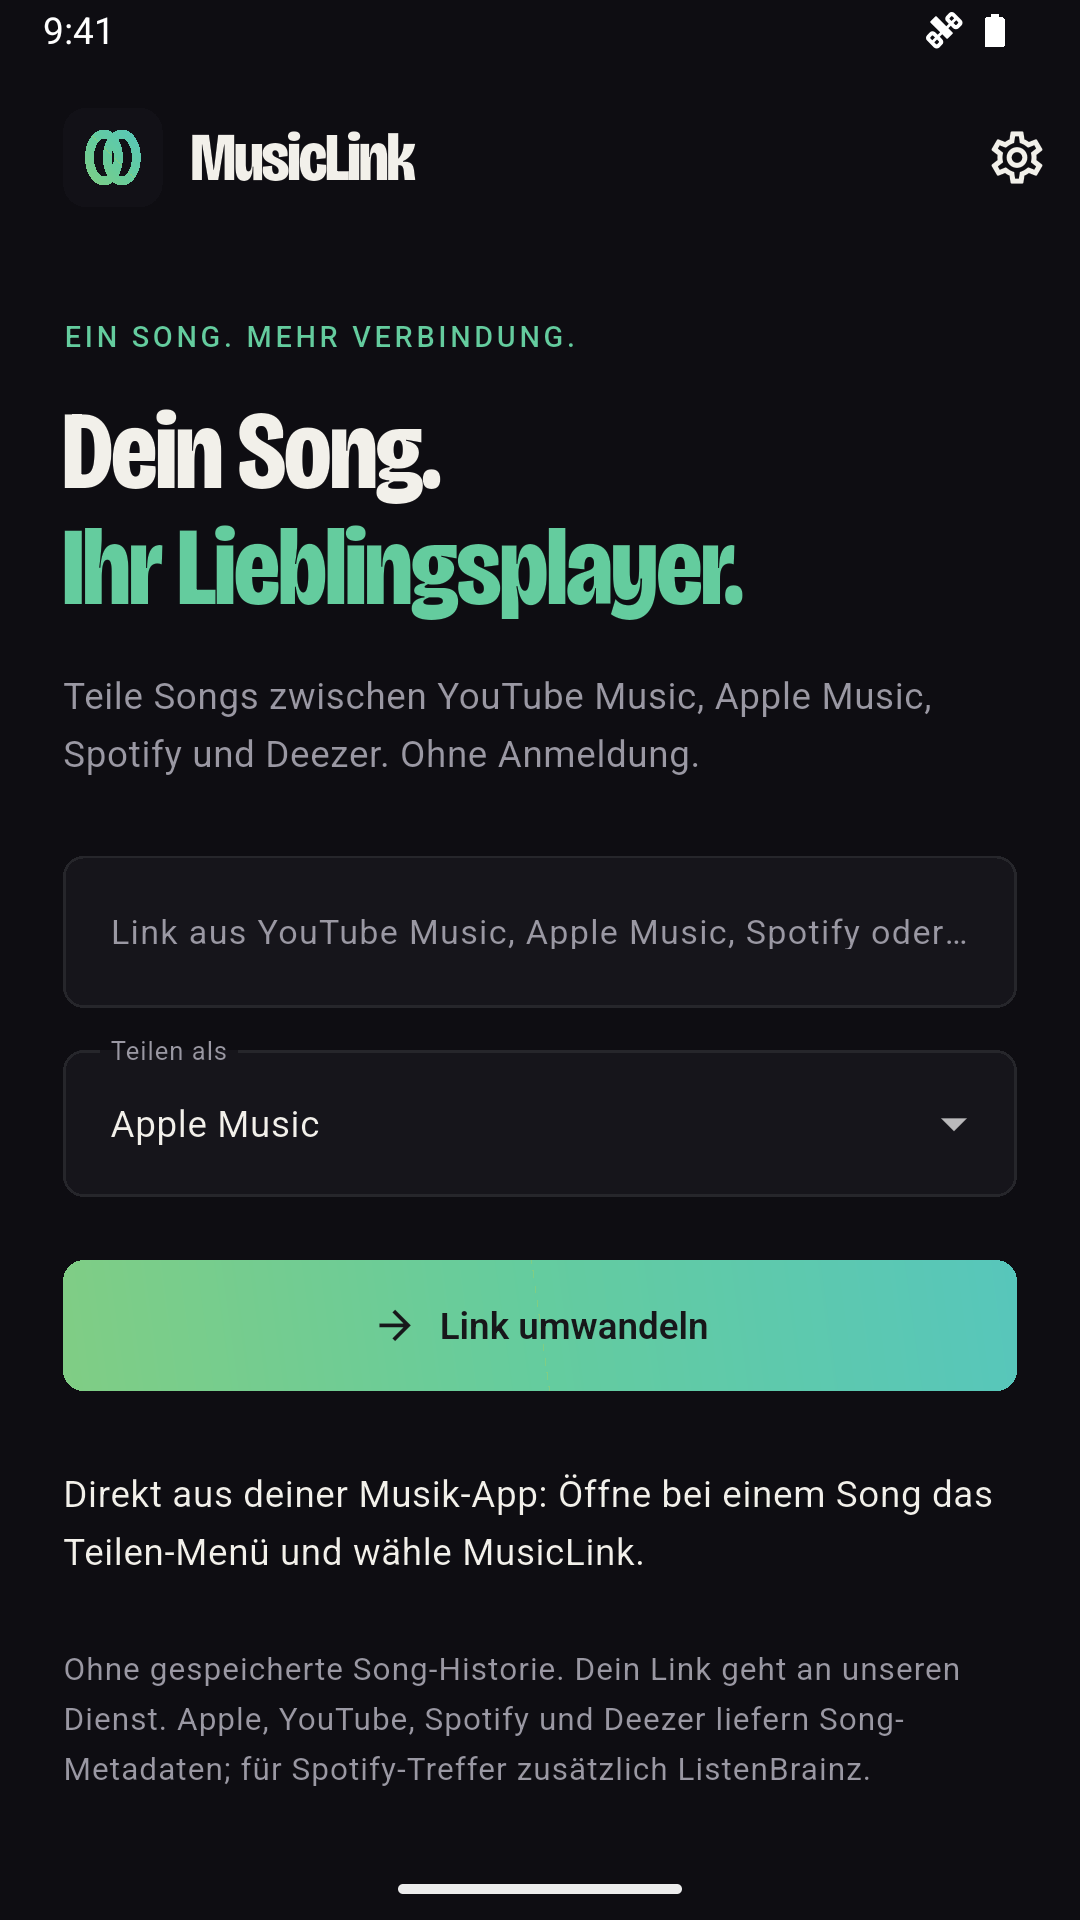
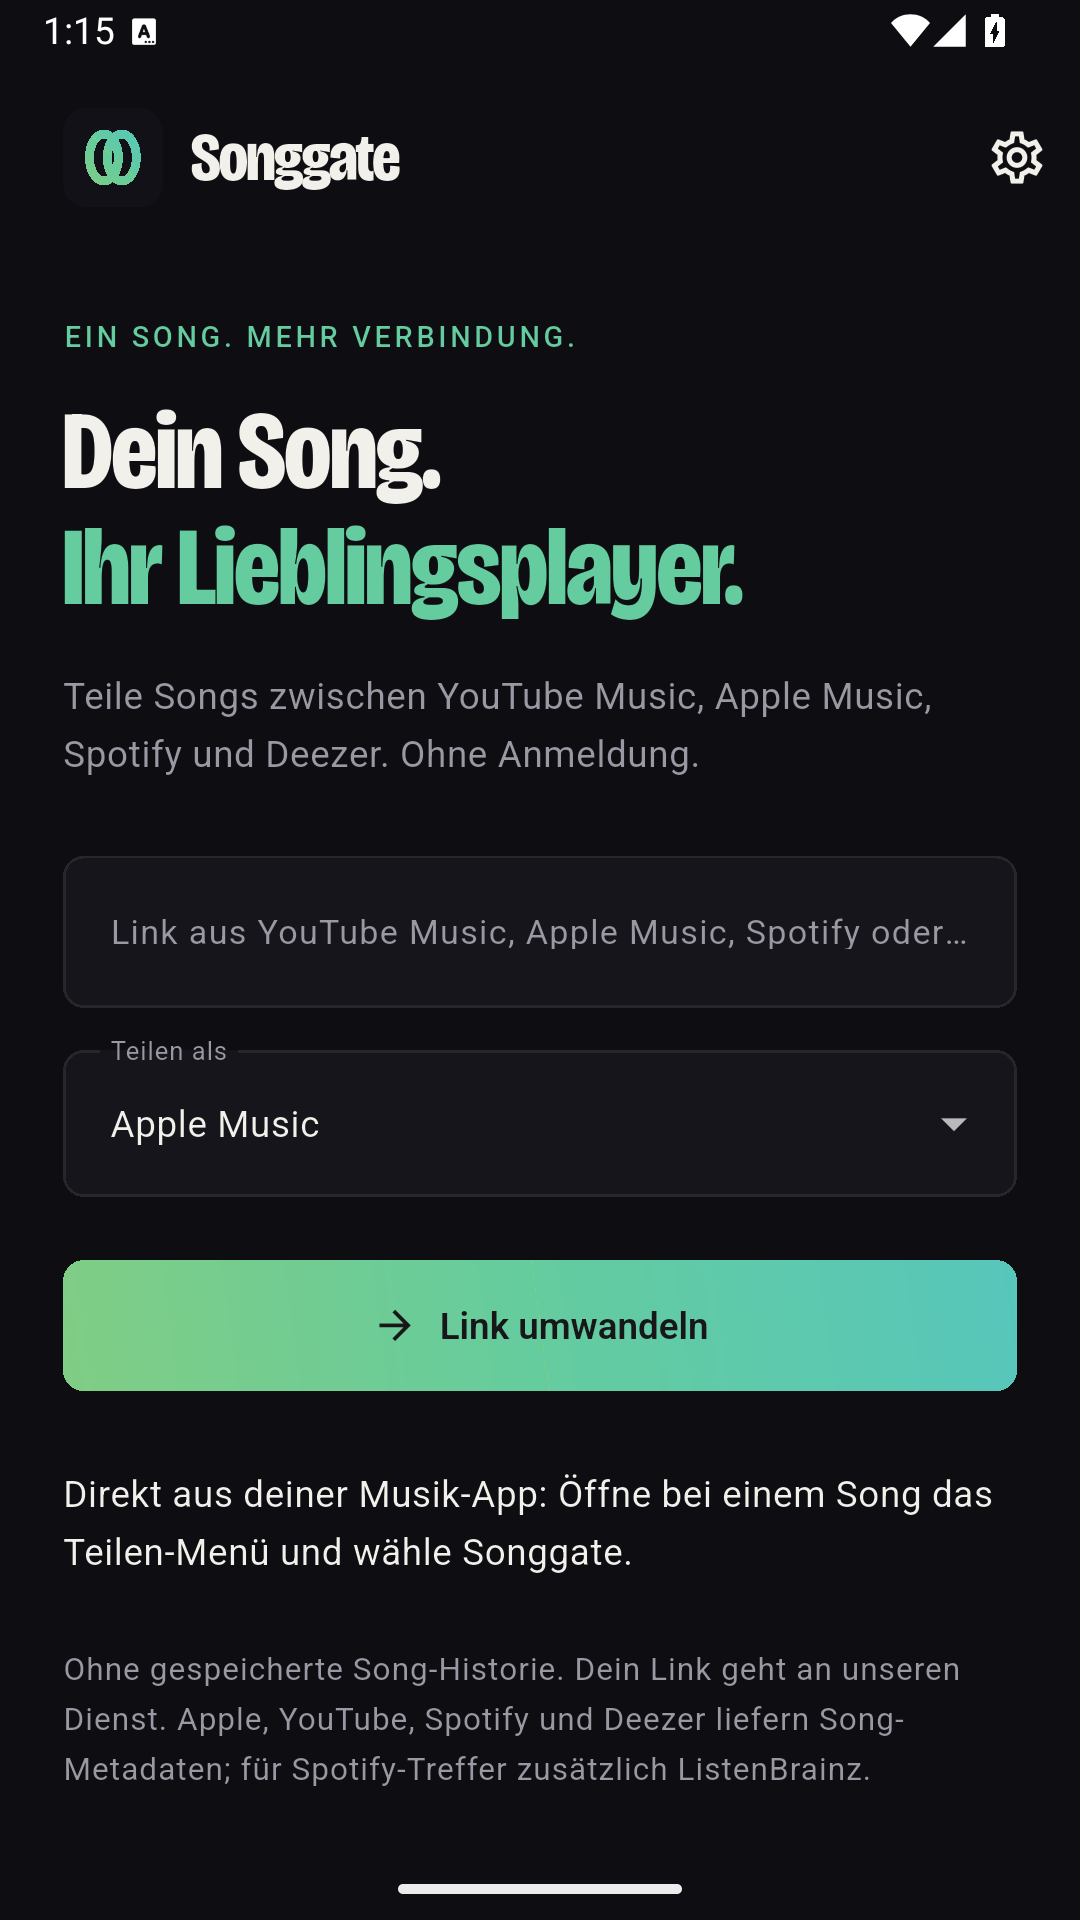
Document songgate.app and refresh native Android store screenshots

diff --git a/AGENTS.md b/AGENTS.md
@@ -3,7 +3,7 @@
 ## Purpose & links
 
 - Shares songs between YouTube Music, Apple Music, Spotify and Deezer, no sign-up: SvelteKit web (`apps/web`), Hono API (`apps/api`), Flutter app with a share extension (`apps/mobile`).
-- Live at https://musiclink.pleasance.org, Coolify on VPS 1, project `pleasance-musiclink`.
+- Live at https://songgate.app, Coolify on VPS 1, project `pleasance-musiclink`.
 - Feedback button in web and app (bug with screenshot, ideas from the footer or the app settings), ported from `robinchoice/starter`. From 1.0 on (`LIVE` in `packages/shared`, `live` in the app's `config.dart`) the bug shows only in test mode, a switch kept per device in the web footer and the app settings; „Feedback geben“ stays for everyone. Reports land in Postgres and are mailed to `FEEDBACK_EMAIL`. The tester's email is optional; the Savor workflow „Weihnachtstester“ picks the most helpful testers from it.
 - iOS: App Store Connect app `6819013473`, bundle `org.musiclink.prototype`. Signing material and TestFlight groups: `~/dev/kontor/infra.md`.
 
@@ -28,7 +28,7 @@ The browser tests start the API and the production build of the web on their own
 - Changed screenshots are committed to `main` by `github-actions[bot]` with `[skip ci]` to prevent deploy loops. Fetch before pushing. Only after the screenshots succeed, the job sends `prototype-deployed` (`client_payload: {slug, sha}`) to `robinchoice/pleasance` using the existing `PLEASANCE_DISPATCH_TOKEN` secret, scoped to that receiver. Without the secret only the dispatch is skipped.
 - Pushes that touch `apps/mobile` also run `mobile.yml`, which uploads an iOS build to TestFlight and builds upload-key-signed Android AAB and APK artifacts (kept for 90 days). Android release CI requires the `ANDROID_KEYSTORE_*`, `ANDROID_KEY_ALIAS` and `ANDROID_KEY_PASSWORD` secrets. Robin confirmed `org.pleasance.songgate` on 22 October 2026. After he uploads the first AAB manually and grants the service account access, set `PLAY_SERVICE_ACCOUNT_JSON` and `PLAY_UPLOAD=true` to upload subsequent builds to Play internal testing. Never enable this before package-name confirmation; no production promotion runs automatically. Job `testflight` (`apps/mobile/tool/testflight.mjs`) gives every build to the internal group „MusicLink Internal“.
 - External testers (group „MusicLink V1“) don't get every build: TestFlight mails a group's testers for each build it is given. Only the build of a release tag `v*` goes there and is submitted for the beta review, and an agent sets that tag only when Robin asks for a release. `git tag v<version> && git push origin v<version>` builds iOS and Android again and releases that build. An already uploaded build: `node tool/testflight.mjs [--quiet] <build number> "MusicLink Internal" "MusicLink V1"` in `apps/mobile` with `ASC_*` from `~/.secrets`.
-- Verify: `gh run watch`. The deploy job only turns green once `https://musiclink.pleasance.org/api/health` reports the commit as `revision`.
+- Verify: `gh run watch`. The deploy job only turns green once `https://songgate.app/api/health` reports the commit as `revision`.
 - Pushes to any branch and PRs from forks also run `secrets.yml`, the secret scan (see „Secret scan“).
 
 ## Pitfalls
@@ -36,7 +36,7 @@ The browser tests start the API and the production build of the web on their own
 - Gitleaks 8.30.1 reads the checkout's `.gitleaksignore` in addition to `--gitleaks-ignore-path`. The workflow replaces it with `CONFIG_REF`'s version too; fork PRs use the base commit's config and ignores.
 - Correlated subselects in `sql` templates: in a single-table select Drizzle renders columns without table names, including inside templates. `exists (select 1 from ${subs} where ${subs.userId} = ${users.id})` becomes `where "user_id" = "id"`, silently referring to the subselect's ID. Use a join or `alias()`, or two simple queries.
 
-- The bundle ID `org.musiclink.prototype` and the repo name predate the naming rules and stay as they are.
+- The bundle ID `org.musiclink.prototype` and the repo name predate the naming rules and stay as they are. The old `musiclink.pleasance.org` host redirects to `songgate.app` with paths and queries intact; `/api` stays on the old host for installed app builds (POST requests must not be redirected). `www.songgate.app` redirects to the apex. The rules live on VPS 1 in `/data/coolify/proxy/dynamic/musiclink-redirect.yaml`.
 - Apple may report a build as `VALID` before TestFlight group assignment can resolve its ID (404). Once the build is readable, rerun only the failed `testflight` job; do not upload the same build number again.
 - The iOS app signs with explicit distribution profiles for the app and the share extension (secrets `IOS_CERTIFICATE_BASE64`, `IOS_APP_PROFILE_BASE64`, `IOS_SHARE_PROFILE_BASE64`). A new extension or capability needs new profiles.
 - No GitHub issues for feedback: the repo is public, reports and screenshots would be too. They stay in the database and the mail.
